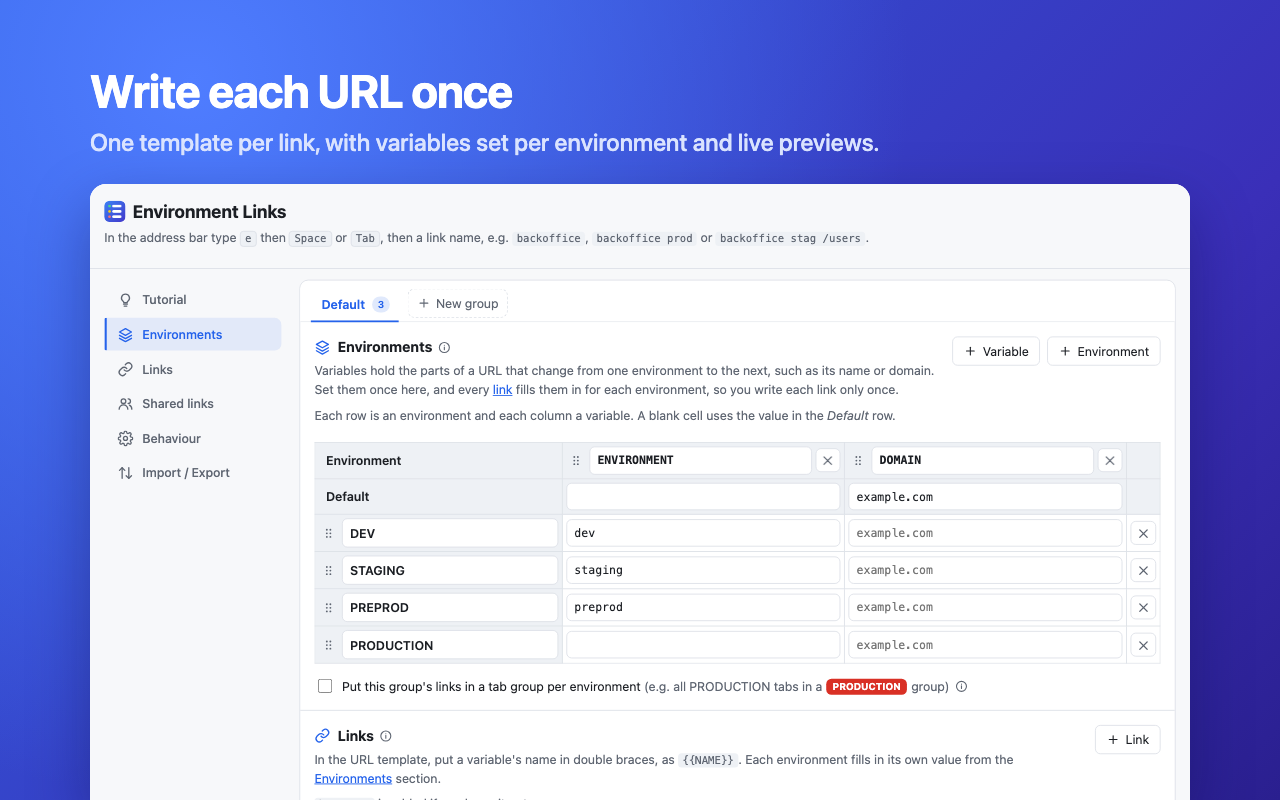
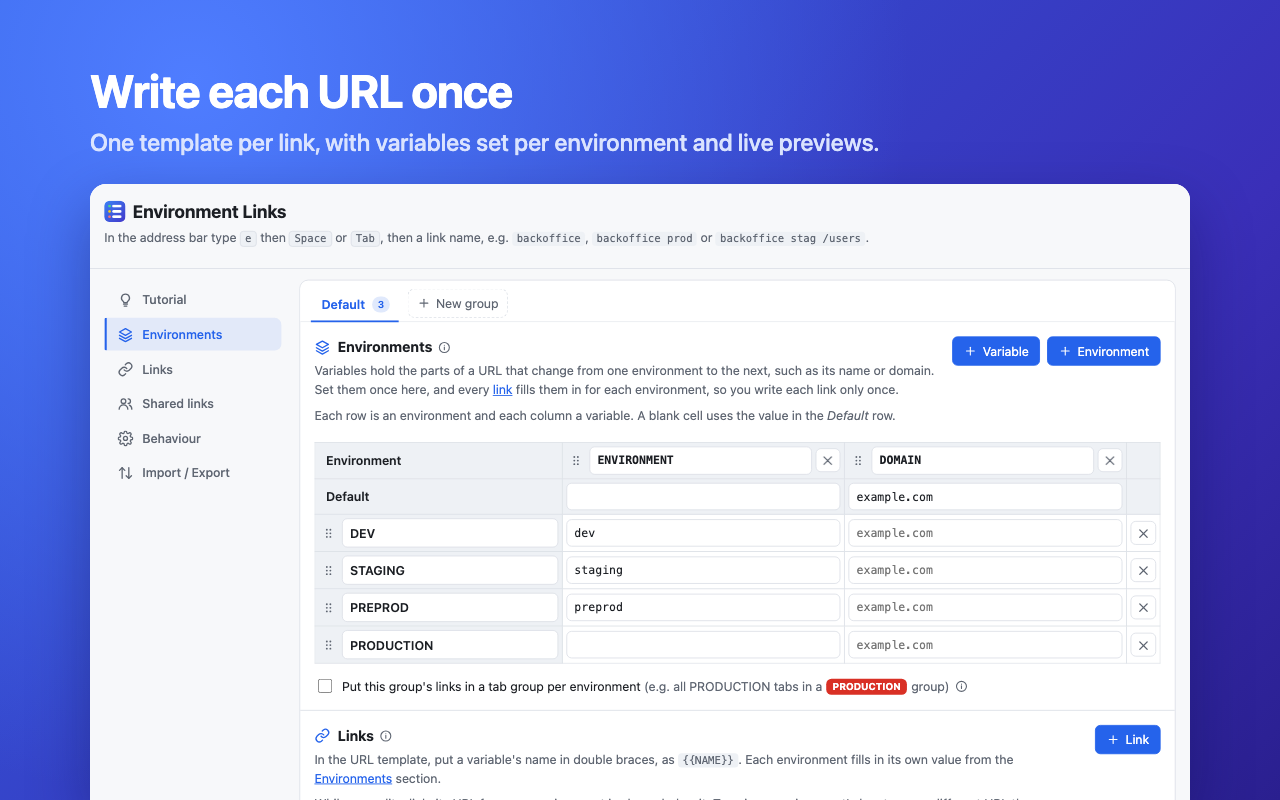
Settings page: clearer tutorial and buttons, wider environment names
- The tutorial's tab groups tickbox says it's for the current group (naming it when there
  are several), and steps 5 and 6 no longer say "(optional)".
- Tutorial actions and + Variable, + Environment and + Link are primary (blue) buttons.
- In a link's overrides, the environment name column fits the longest name (up to 240px),
  shared across the rows so the boxes still line up.
- "https:// is added if you leave it out" is the last line of the Links description.

Changed region(s): [[0.7188, 0.4062, 0.9062, 0.4688], [0.8438, 0.9062, 0.9062, 0.9688]]

diff --git a/src/options.html b/src/options.html
@@ -104,7 +104,7 @@
               <p>Press <kbd class="popup-shortcut">Not set</kbd> on any page, or click the extension's icon, for every link with a
                 button per environment. Type to search, use the arrow keys to choose, and press <kbd>Enter</kbd>. You can change
                 the shortcut, and pin the icon from Chrome's puzzle-piece menu.</p>
-              <button type="button" class="slide-cta" data-action="shortcut">Change shortcut</button>
+              <button type="button" class="primary slide-cta" data-action="shortcut">Change shortcut</button>
             </div>
           </article>
 
@@ -121,12 +121,12 @@
             </div>
             <div class="slide-text">
               <span class="step-num">5</span>
-              <h3>Keep each environment's tabs together <span class="muted">(optional)</span></h3>
+              <h3>Keep each environment's tabs together</h3>
               <p>Turn on tab groups and every link you open joins a group named after its environment, coloured to match:
                 production red, staging yellow, dev green. It's easy to see which tabs are production at a glance.</p>
               <label class="slide-toggle">
-                <input type="checkbox" class="group-tabs-input" aria-label="Put links in a tab group per environment">
-                <span>Put links in a tab group per environment</span>
+                <input type="checkbox" class="group-tabs-input" aria-label="Put links in a tab group per environment, for the current group">
+                <span>Put links in a tab group per environment <span class="muted current-group-note">(for the current group)</span></span>
               </label>
             </div>
           </article>
@@ -143,10 +143,10 @@
             </div>
             <div class="slide-text">
               <span class="step-num">6</span>
-              <h3>Share with your team <span class="muted">(optional)</span></h3>
+              <h3>Share with your team</h3>
               <p>Commit a links file to a GitHub repository, then add it in <strong>Shared links</strong>. Everyone who adds it gets
                 the same links, environments and variables, and anything you set yourself still wins.</p>
-              <button type="button" class="slide-cta" data-action="sharing">Go to Shared links</button>
+              <button type="button" class="primary slide-cta" data-action="sharing">Go to Shared links</button>
             </div>
           </article>
         </div>
@@ -180,8 +180,8 @@
           <p class="muted">Each row is an environment and each column a variable. A blank cell uses the value in the <em>Default</em> row.</p>
         </div>
         <div class="actions">
-          <button id="add-var" type="button">+ Variable</button>
-          <button id="add-env" type="button">+ Environment</button>
+          <button id="add-var" type="button" class="primary">+ Variable</button>
+          <button id="add-env" type="button" class="primary">+ Environment</button>
         </div>
       </div>
       <div class="table-wrap"><table id="vars" class="grid"></table></div>
@@ -202,11 +202,11 @@
           <h2><svg class="h-icon" viewBox="0 0 24 24" width="18" height="18" aria-hidden="true" fill="none" stroke="currentColor" stroke-width="2" stroke-linecap="round" stroke-linejoin="round"><path d="M10 13a5 5 0 0 0 7.5.5l3-3a5 5 0 0 0-7-7l-1.7 1.7"/><path d="M14 11a5 5 0 0 0-7.5-.5l-3 3a5 5 0 0 0 7 7l1.7-1.7"/></svg>Links<a href="#tutorial" class="help-link" data-tutorial-step="2" title="Show how links work in the tutorial" aria-label="How links work (opens the tutorial)"></a></h2>
           <p class="muted">In the URL template, put a variable's name in double braces, as <code>{{NAME}}</code>. Each
             environment fills in its own value from the <a href="#vars-section">Environments</a> section.</p>
-          <p class="muted"><code>https://</code> is added if you leave it out.</p>
           <p class="muted">While you edit a link, its URL for every environment is shown below it. Type in an environment's box to use
             a different URL there.</p>
+          <p class="muted"><code>https://</code> is added if you leave it out.</p>
         </div>
-        <div class="actions"><button id="add-link" type="button">+ Link</button></div>
+        <div class="actions"><button id="add-link" type="button" class="primary">+ Link</button></div>
       </div>
       <div id="links"></div>
       <div id="shared-links"></div>

diff --git a/src/options.css b/src/options.css
@@ -146,9 +146,13 @@ table.grid { border-collapse: collapse; width: 100%; }
 .link-row .toggle[aria-expanded="true"] svg { transform: rotate(90deg); }
 @media (prefers-reduced-motion: reduce) { .link-row .toggle svg { transition: none; } }
 .link-details { border-top: 1px solid var(--border); padding: 15px 30px; display: none; }
-.link.open .link-details { display: block; }
-.env-row { display: grid; grid-template-columns: minmax(80px, 120px) 1fr; gap: 4px 12px; align-items: center; margin-bottom: 8px; padding-top: 10px; }
-.env-row:has(.applies) { grid-template-columns: minmax(80px, 120px) 1fr auto; }
+/* The environment rows share one set of columns (a subgrid), so the name column fits the longest
+   name, up to 240px, and every row's box still lines up. */
+.link.open .link-details { display: grid; grid-template-columns: fit-content(240px) 1fr auto; column-gap: 12px; }
+.link-details > * { grid-column: 1 / -1; }
+.env-row {
+  display: grid; grid-template-columns: subgrid; gap: 4px 12px; align-items: center; margin-bottom: 8px; padding-top: 10px;
+}
 .env-row .applies { display: inline-flex; align-items: center; gap: 6px; font-size: 12px; color: var(--muted); cursor: pointer; white-space: nowrap; }
 .env-row .applies input { margin: 0; }
 /* A link that doesn't apply to an environment: the row fades and its override can't be edited. */
@@ -186,6 +190,7 @@ table.grid { border-collapse: collapse; width: 100%; }
   .link-row { grid-template-columns: 28px 1fr auto; }
   .link-row .template { grid-column: 2 / 4; grid-row: 2; }
   .link-details { padding-left: 8px; }
+  .link.open .link-details { display: block; }
   .env-row { grid-template-columns: 1fr; }
   .env-row:has(.applies) { grid-template-columns: 1fr auto; }
   .env-row .applies { grid-column: 2; grid-row: 1; }

diff --git a/src/options.js b/src/options.js
@@ -140,6 +140,11 @@ const focusGroupTab = (id) => $(`#group-tabs [role=tab][data-group="${CSS.escape
 function renderGroups() {
   const several = settings.groups.length > 1;
   closeGroupMenu();
+  // The tutorial's tab groups tickbox is for the group being edited; with several, it names it.
+  const note = several ? `(for the ${config.name} group)` : "(for the current group)";
+  document.querySelectorAll(".current-group-note").forEach((n) => (n.textContent = note));
+  document.querySelector(".slide-toggle .group-tabs-input")
+    ?.setAttribute("aria-label", `Put links in a tab group per environment, ${note.slice(1, -1)}`);
   $("#group-tabs").replaceChildren(...effectiveAll.groups.map((resolved, i) => {
     const group = settings.groups[i];
     const selected = group.id === config.id;
